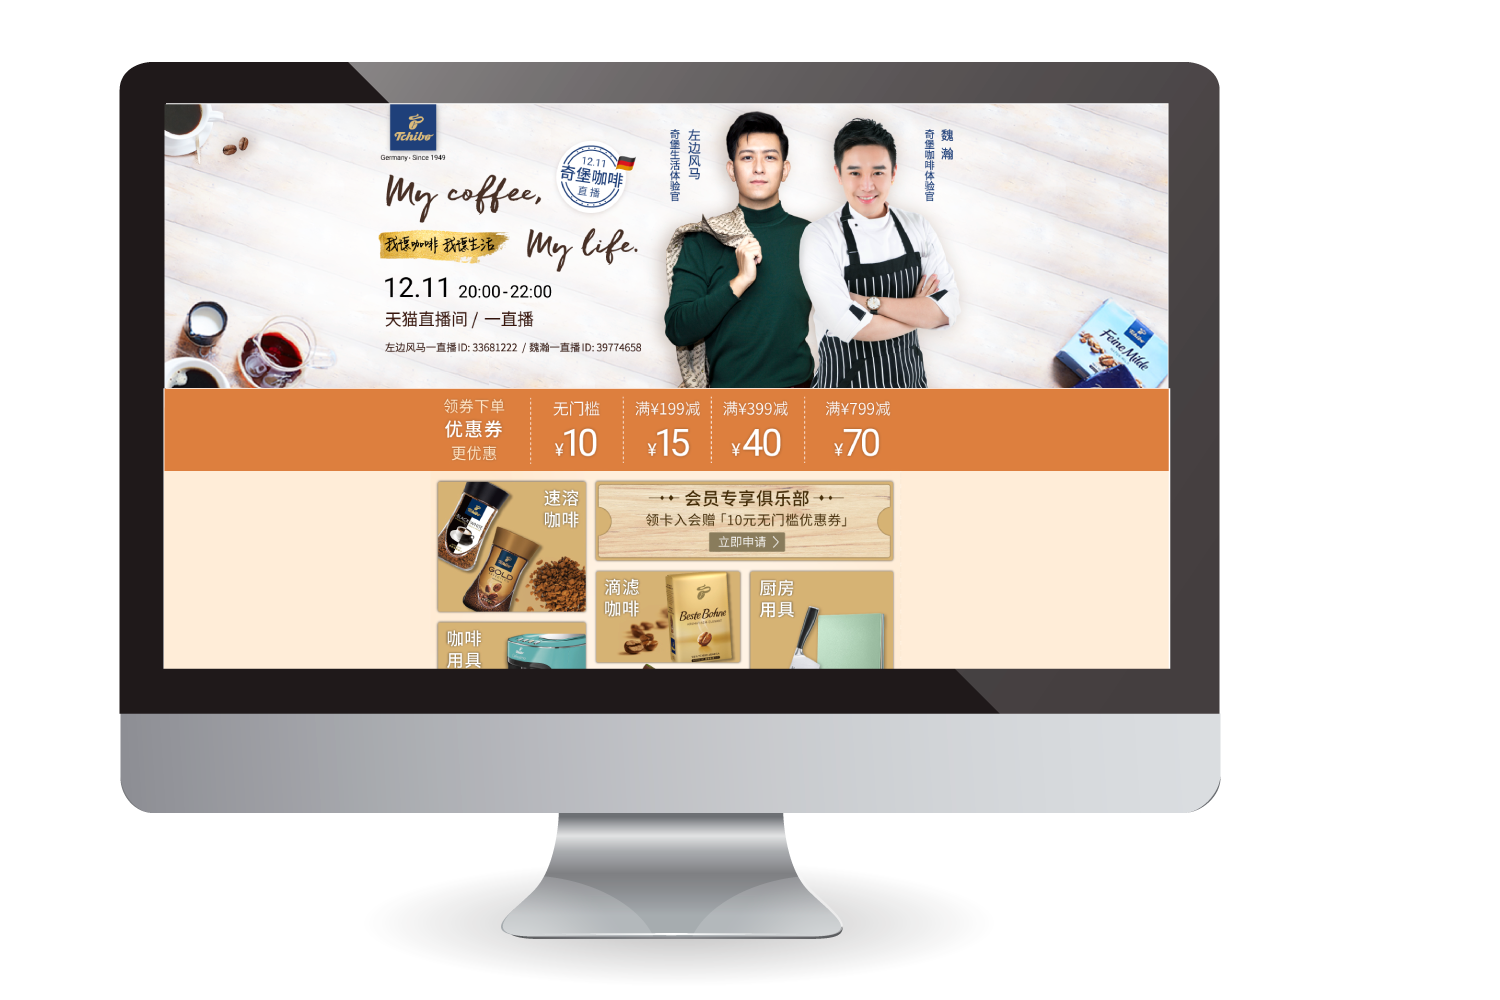
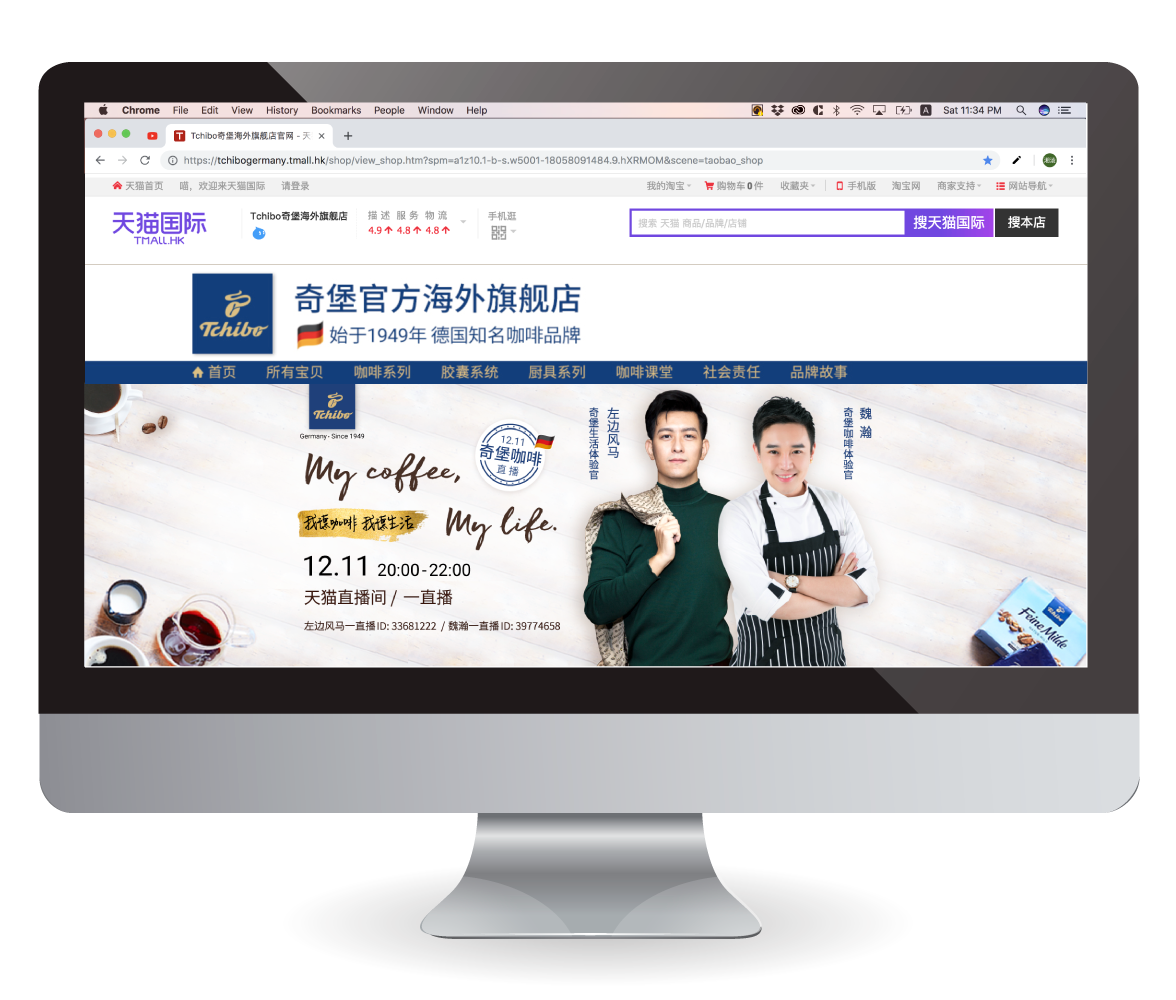
v27

diff --git a/livestream.css b/livestream.css
@@ -94,7 +94,7 @@ div.fix {
 
     div.GalleryFrame {
         text-align: center;
-        margin: 28px auto;
+        margin: 30px auto;
         
       }
     div.gallery {
@@ -127,8 +127,55 @@ div.fix {
 
 
 
-    div.detail img {
+    div.detail1 img {
+      width: 600px;
+      margin-top: 80px;
+      margin-left: -340px;
+    }
+    div.detail2 img{
+      width: 600px;
+      margin-top: 55px;
+      margin-left: 410px;
+    }
+
+ 
+
+    .detail1intro {
+      margin-left: 620px;
+      margin-top: -330px;
+      font-family: Helvetica;
+    }
+
+    .detail1intro p{
+      font-size: 18px;
+      font-family: Helvetica;
+    }
+ 
+
+    .detail2intro {
+      margin-left: -580px;
+      margin-top: -260px;
       
+    }
+
+    .detail2intro p{
+    font-family: Helvetica;
+    font-size: 18px;
+    
+    }
+
+    
+
+    .detailtitle p {
+      font-family: Helvetica;
+      font-size: 22px;
+      margin-top: 250px;
+      
+    }
+
+    .detailtitle img {
+      width: 950px;
+      margin-top: 50px;
     }
 
 

diff --git a/livestream.html b/livestream.html
@@ -82,18 +82,38 @@
     </div>
 
 
-    <div class="detail">
+    <div class="detail1">
       <img src="livestream/mockup1.jpg">
-
-
-
-
-
-
-
-
-
     </div>
+
+    <div class="detail1intro">
+      <p>一直播 直播間畫面</p>
+      <p>(Mobile Version)</p>
+    </div>
+
+    
+    
+    <div class="detail2">
+      <img src="livestream/mockup2.png">
+    </div>
+
+
+    <div class="detail2intro">
+        <p>Tmall Livestream Header</p>
+        <p>(Desktop Version)</p>
+      </div>
+    
+
+
+
+
+    <div class="detailtitle">
+    <p>Livestream Printed Works Display</p>
+    <img src="livestream/display.jpg">
+    </div>
+
+
+
 
 
 
